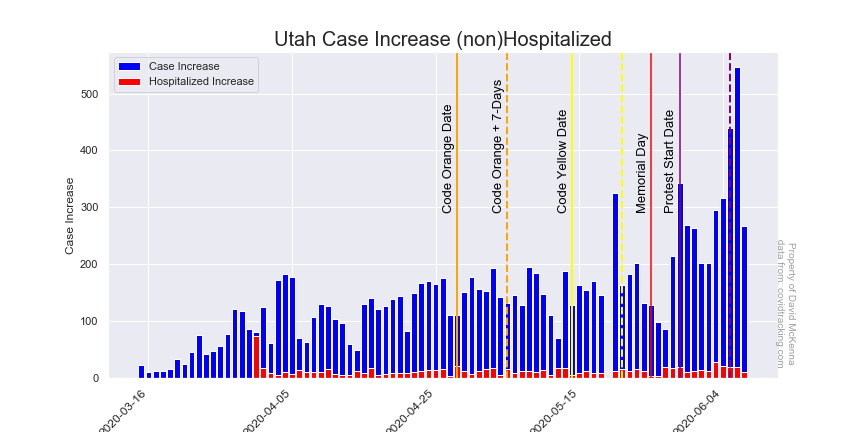
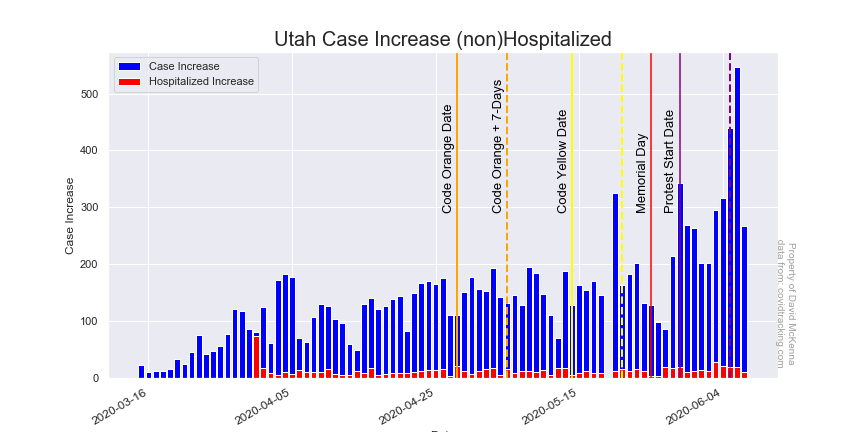
added link where I got data to watermark and rotated x-ticks

diff --git a/My_COVID_API.py b/My_COVID_API.py
@@ -111,12 +111,14 @@ fig, ax = plt.subplots(figsize = (12,6))
 watermark()
 
 ax.bar(UT['date_ordinal'], UT['positiveIncrease'], label='Case Increase',color='blue')
-ax.bar(UT['date_ordinal'], UT['hospitalizedIncrease'], label='Hospitalized Increase',color='red')
+ax.bar(UT['date_ordinal'], UT['hospitalizedIncrease'], 
+       label='Hospitalized Increase',color='red')
+
 ax.legend(loc='upper left')
 
 
 new_labels = [date.fromordinal(int(item)) for item in ax.get_xticks()]
-ax.set_xticklabels(labels=new_labels, rotation=45, ha='right',fontdict={'fontsize':12})
+ax.set_xticklabels(labels=new_labels, rotation=30, ha='right',fontdict={'fontsize':12})
 
 ax.axvline(x=OrangeDate, color='orange', linewidth=2)
 ax.annotate('Code Orange Date', (OrangeDate - 2,text_loc),color='black',rotation=90,fontsize=13)
@@ -167,7 +169,7 @@ plt.plot(UT['date_ordinal'], UT.rolling_mean3, label='20 Day Average', color='bl
 
 plt.legend(loc='upper left')
 new_labels = [date.fromordinal(int(item)) for item in ax.get_xticks()]
-ax.set_xticklabels(labels=new_labels, rotation=45, ha='right',fontdict={'fontsize':12})
+ax.set_xticklabels(labels=new_labels, rotation=30, ha='right',fontdict={'fontsize':12})
 
 ax.axvline(x=OrangeDate, color='orange', linewidth=2)
 ax.annotate('Code Orange Date', (OrangeDate - 2,text_loc),color='black',rotation=90,fontsize=13)
@@ -212,7 +214,7 @@ plt.plot(UT['date_ordinal'], UT.rolling_mean_d2, label='7 Day Average', color='g
 plt.plot(UT['date_ordinal'], UT.rolling_mean_d3, label='20 Day Average', color='blue')
 plt.legend(loc='upper left')
 new_labels = [date.fromordinal(int(item)) for item in ax.get_xticks()]
-ax.set_xticklabels(labels=new_labels, rotation=90, ha='right',fontdict={'fontsize':12})
+ax.set_xticklabels(labels=new_labels, rotation=30, ha='right',fontdict={'fontsize':12})
 plt.title('Utah Deaths Increase Rolling Average', fontdict={'fontsize':20})
 plt.xlabel('Date', fontdict={'fontsize':12})
 plt.ylabel('Deaths Increase', fontdict={'fontsize':12})
@@ -247,7 +249,7 @@ new_labels = [date.fromordinal(int(item)) for item in ax.get_xticks()]
 plt.title('UT Positve Per Test', fontdict={'fontsize':20})
 plt.xlabel('Date', fontdict={'fontsize':12})
 plt.ylabel('Positive/Test', fontdict={'fontsize':12})
-ax.set_xticklabels(new_labels, rotation = 45)
+ax.set_xticklabels(new_labels, rotation = 30)
 
 plt.savefig('UT_Positive_Per_Test.png')
 plt.show()
@@ -279,7 +281,7 @@ ax.legend(loc='upper left')
 
 
 new_labels = [date.fromordinal(int(item)) for item in ax.get_xticks()]
-ax.set_xticklabels(labels=new_labels, rotation=90, ha='right',fontdict={'fontsize':12})
+ax.set_xticklabels(labels=new_labels, rotation=30, ha='right',fontdict={'fontsize':12})
 
 ax.axvline(x=OrangeDate, color='orange', linewidth=2)
 # ax.annotate('Code Orange Date', (OrangeDate - 2,240),color='black',rotation=90,fontsize=13)
@@ -294,9 +296,9 @@ ax.axvline( x=YellowDate + 7, color='yellow', linewidth=2, linestyle = '--')
 ax.axvline( x=ProtestDate + 7, color='purple', linewidth=2, linestyle = '--')
 
 
-plt.title('Utah Test Increase', fontdict={'fontsize':20})
+plt.title('Utah Test Tests Per Day', fontdict={'fontsize':20})
 plt.xlabel('Date', fontdict={'fontsize':12})
-plt.ylabel('Test Increase', fontdict={'fontsize':12})
+plt.ylabel('Tests', fontdict={'fontsize':12})
 plt.axis('tight')
 plt.savefig('Utah_Increase_Test.png')
 
@@ -313,7 +315,7 @@ fig = sns.pointplot(x = 'date', y = 'positive',
                     data = UT, markers = '.')
 
 x_dates = UT['date'].dt.strftime('%m-%d').sort_values().unique()
-ax.set_xticklabels(labels=x_dates, rotation=90, ha='right',
+ax.set_xticklabels(labels=x_dates, rotation=30, ha='right',
                    fontdict={'fontsize':12})
 plt.title('Utah Total Cases', fontdict={'fontsize':20})
 plt.xlabel('Date', fontdict={'fontsize':12})
@@ -379,7 +381,7 @@ fig = sns.pointplot(x = 'date', y = 'death',hue='state',
                     data = FourC, palette = 'Set1', markers ='.')
 
 x_dates = FourC['date'].dt.strftime('%m-%d').sort_values().unique()
-ax.set_xticklabels(labels=x_dates, rotation=90, ha='right',fontdict={'fontsize':12})
+ax.set_xticklabels(labels=x_dates, rotation=30, ha='right',fontdict={'fontsize':12})
 plt.title('Nearest States: Death Total', fontdict={'fontsize':20})
 plt.xlabel('Date', fontdict={'fontsize':12})
 plt.ylabel('Tot. Deaths', fontdict={'fontsize':12})
@@ -395,7 +397,7 @@ fig = sns.pointplot(x = 'date', y = 'DperP',hue='state',
                     data = FourC, palette = 'Set1', markers ='.')
 
 x_dates = FourC['date'].dt.strftime('%m-%d').sort_values().unique()
-ax.set_xticklabels(labels=x_dates, rotation=90, ha='right',fontdict={'fontsize':12})
+ax.set_xticklabels(labels=x_dates, rotation=30, ha='right',fontdict={'fontsize':12})
 plt.title('Nearest States: Deaths per Case', fontdict={'fontsize':20})
 plt.xlabel('Date', fontdict={'fontsize':12})
 plt.ylabel('Death per Case', fontdict={'fontsize':12})
@@ -429,7 +431,7 @@ plt.legend(loc='upper left')
 
 new_labels = [date.fromordinal(int(item)) for item in ax.get_xticks()]
 ax.set_xlim(CA['date_ordinal'].min() , CA['date_ordinal'].max() )
-ax.set_xticklabels(labels=new_labels, rotation=90, ha='right',fontdict={'fontsize':12})
+ax.set_xticklabels(labels=new_labels, rotation=30, ha='right',fontdict={'fontsize':12})
 plt.title('California Positive Increase Rolling Average', fontdict={'fontsize':20})
 plt.xlabel('Date', fontdict={'fontsize':12})
 plt.ylabel('Positive Increase', fontdict={'fontsize':12})
@@ -464,7 +466,7 @@ new_labels = [date.fromordinal(int(item)) for item in ax.get_xticks()]
 
 
 ax.set_xlim(CA['date_ordinal'].min() , CA['date_ordinal'].max() )
-ax.set_xticklabels(labels=new_labels, rotation=45, ha='right',fontdict={'fontsize':12})
+ax.set_xticklabels(labels=new_labels, rotation=30, ha='right',fontdict={'fontsize':12})
 plt.title('California Death Increase Rolling Average', fontdict={'fontsize':20})
 plt.xlabel('Date', fontdict={'fontsize':12})
 plt.ylabel('Death Increase', fontdict={'fontsize':12})
@@ -499,7 +501,7 @@ new_labels = [date.fromordinal(int(item)) for item in ax.get_xticks()]
 plt.title('CA Positve Per Test', fontdict={'fontsize':20})
 plt.xlabel('Date', fontdict={'fontsize':12})
 plt.ylabel('Positive/Test', fontdict={'fontsize':12})
-ax.set_xticklabels(new_labels, rotation = 45)
+ax.set_xticklabels(new_labels, rotation = 30)
 
 
 plt.savefig('CA_Positive_Per_Test.png')
